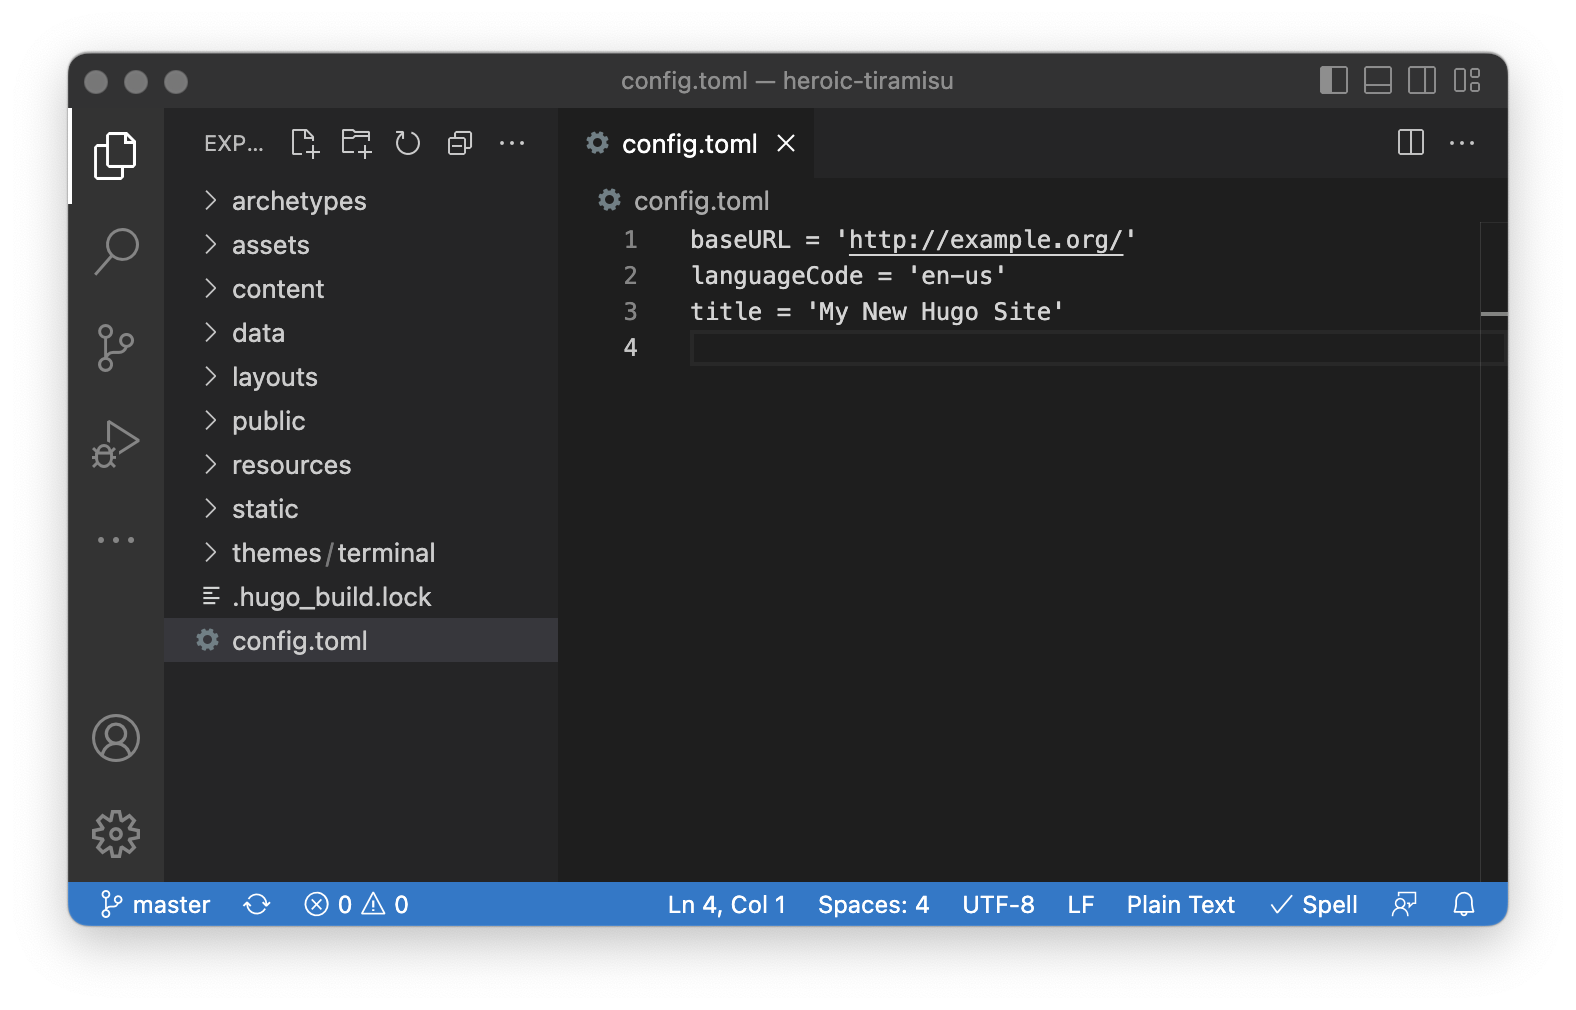
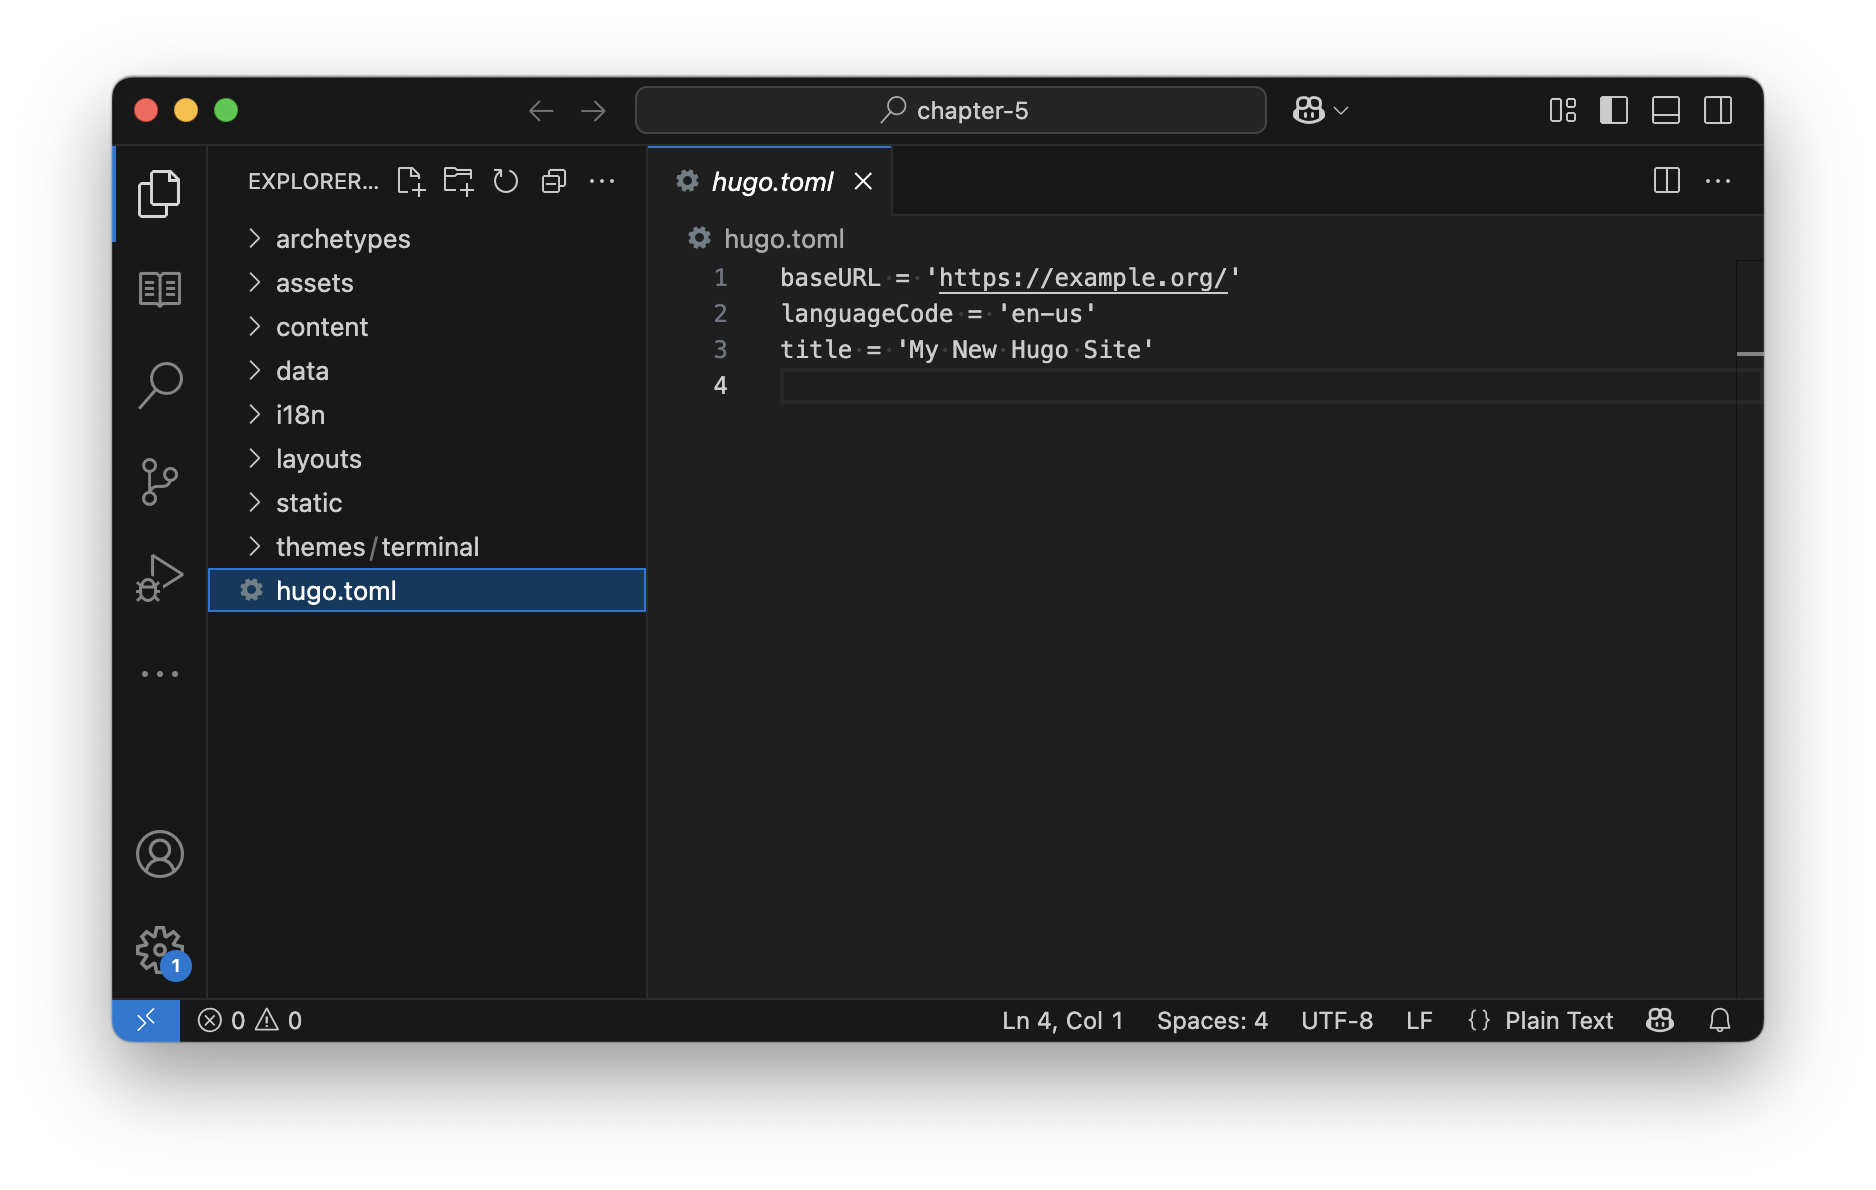
Update chapter 5

Changed region(s): [[0.0311, 0.0307, 0.9638, 0.9208]]

diff --git a/content/chapter-5-creating-a-static-website-using-hugo.md b/content/chapter-5-creating-a-static-website-using-hugo.md
@@ -2,7 +2,7 @@
 title: "Creating a Static Website Using Hugo"
 chapter: "Chapter 5"
 description: "Chapter 5 of the Static Site Guide, a book that explains how to build a static website from scratch."
-date: 2025-06-21
+date: 2025-06-28
 previous: 
   name: "Chapter 4"
   link: "/chapter-4-styling-elements-with-css/"
@@ -70,7 +70,7 @@ We'll start by installing the Homebrew package manager. This is a pre-step of so
 Follow the prompts in your terminal application. You'll be prompted to enter your password and then press the Return key to start the installation. The entire output is displayed below:
 
 ```bash
-mcone@wombat ~ % /bin/bash -c "$(curl -fsSL https://raw.githubusercontent.com/Homebrew/install/HEAD/install.sh)"
+mcone@roadrunner ~ % /bin/bash -c "$(curl -fsSL https://raw.githubusercontent.com/Homebrew/install/HEAD/install.sh)"
 ==> Checking for `sudo` access (which may request your password)...
 Password:
 ==> This script will install:
@@ -122,8 +122,8 @@ brew --version
 If everything worked, the following output will be displayed:
 
 ```bash
-mcone@wombat ~ % brew --version
-Homebrew 4.2.19
+mcone@roadrunner ~ % brew --version
+Homebrew 4.5.8
 ```
 
 {{< aside type="tip" >}}
@@ -147,8 +147,8 @@ hugo version
 If everything worked, you should see something similar to this output:
 
 ```bash
-mcone@wombat ~ % hugo version
-hugo v0.128.0+extended darwin/arm64 BuildDate=2024-06-25T16:15:48Z VendorInfo=brew
+mcone@roadrunner ~ % hugo version
+hugo v0.147.9+extended+withdeploy darwin/arm64 BuildDate=2025-06-23T08:22:20Z VendorInfo=brew
 ```
 
 You've successfully installed Hugo on your Mac and you're ready to create a new website.
@@ -173,7 +173,7 @@ If everything worked, you should see something similar to this output:
 
 ```powershell
 PS C:\Users\mcone> hugo version
-hugo v0.126.1-3d40aba512931031921463dafc172c0d124437b8+extended windows/amd64 BuildDate=2024-05-15T10:42:34Z VendorInfo=gohugoio
+hugo v0.147.9-3d40aba512931031921463dafc172c0d124437b8+extended windows/amd64 BuildDate=2024-05-15T10:42:34Z VendorInfo=gohugoio
 ``` 
 
 You've successfully installed Hugo on your PC and you're ready to create a new website.
@@ -191,7 +191,7 @@ pwd
 You should see output similar to the following:
 
 ```bash
-mcone@wombat ~ % pwd
+mcone@roadrunner ~ % pwd
 /Users/mcone
 ```
 
@@ -204,7 +204,7 @@ cd /Users/mcone/Documents
 If I enter the `pwd` command again, I'll see that I'm in the `Documents` directory:
 
 ```bash
-mcone@wombat Documents % pwd
+mcone@roadrunner Documents % pwd
 /Users/mcone/Documents
 ```
 
@@ -219,19 +219,20 @@ hugo new site heroic-tiramisu
 If everything works, you should see the following output:
 
 ```plain
-mcone@wombat Documents % hugo new site heroic-tiramisu
+mcone@roadrunner Documents % hugo new site heroic-tiramisu
 Congratulations! Your new Hugo site is created in /Users/mcone/Documents/heroic-tiramisu.
 
-Just a few more steps and you're ready to go:
+Just a few more steps...
 
-1. Download a theme into the same-named folder.
-   Choose a theme from https://themes.gohugo.io/ or
-   create your own with the "hugo new theme <THEMENAME>" command.
-2. Perhaps you want to add some content. You can add single files
-   with "hugo new <SECTIONNAME>/<FILENAME>.<FORMAT>".
-3. Start the built-in live server via "hugo server".
+1. Change the current directory to /Users/mcone/Documents/heroic-tiramisu.
+2. Create or install a theme:
+   - Create a new theme with the command "hugo new theme <THEMENAME>"
+   - Or, install a theme from https://themes.gohugo.io/
+3. Edit hugo.toml, setting the "theme" property to the theme name.
+4. Create new content with the command "hugo new content <SECTIONNAME>/<FILENAME>.<FORMAT>".
+5. Start the embedded web server with the command "hugo server --buildDrafts".
 
-Visit https://gohugo.io/ for quickstart guide and full documentation.
+See documentation at https://gohugo.io/.
 ```
 
 Hugo created a new directory called `heroic-tiramisu`—along with some new files and folders inside that—in our Documents folder. We'll take a look at the directory structure after we install the theme.
@@ -264,15 +265,15 @@ Now that we've successfully installed our theme, we can start customizing it.
 
 ### Configuring the Theme
 
-We need to customize the `config.toml` file for the Terminal theme. The `config.toml` file holds metadata and settings for our Hugo website. Hugo uses these settings to control how the website is built, and our theme uses these settings to fill in variables in the template and change the appearance of our website. 
+We need to customize the `hugo.toml` file for the Terminal theme. The `hugo.toml` file holds metadata and settings for our Hugo website. Hugo uses these settings to control how the website is built, and our theme uses these settings to fill in variables in the template and change the appearance of our website. 
 
 At this point, we'll open the `heroic-tiramisu` directory in our text editor so that we can start editing files.
 
-In VS Code, select **New Window** from the **File** menu, and then select **Open Folder** from the **File** menu. Browse to the the `heroic-tiramisu` directory, select it, and click **Open**. The directory will open in VS Code. Select the `config.toml` file in the sidebar to start editing it, as shown below.
+In VS Code, select **New Window** from the **File** menu, and then select **Open Folder** from the **File** menu. Browse to the the `heroic-tiramisu` directory, select it, and click **Open**. The directory will open in VS Code. Select the `hugo.toml` file in the sidebar to start editing it, as shown below.
 
 ![The heroic-tiramisu directory in VS Code](/images/figures/figure-34.png)
 
-The Terminal theme's documentation provides a [sample configuration file](https://github.com/panr/hugo-theme-terminal?tab=readme-ov-file#how-to-configure) that you can use as a starting part. That file contains every possible setting for the Terminal theme, which is overkill for our needs. To simplify things, I've customized the defaults and provided them below so that you can copy and paste them into your `config.toml` file. One line I want to draw your attention to is `theme = "terminal"` which tells Hugo to use the Terminal theme.
+The Terminal theme's documentation provides a [sample configuration file](https://github.com/panr/hugo-theme-terminal?tab=readme-ov-file#how-to-configure) that you can use as a starting part. That file contains every possible setting for the Terminal theme, which is overkill for our needs. To simplify things, I've customized the defaults and provided them below so that you can copy and paste them into your `hugo.toml` file. One line I want to draw your attention to is `theme = "terminal"` which tells Hugo to use the Terminal theme.
 
 {{< aside type="tip" >}}
 The Hugo configuration file is written in [TOML](https://toml.io/en/), a file format for configuration files. That's why the file has the `.toml` file extension and the odd formatting of the settings below.
@@ -282,7 +283,7 @@ The Hugo configuration file is written in [TOML](https://toml.io/en/), a file fo
 baseURL = "/"
 languageCode = "en-us"
 theme = "terminal"
-paginate = 5
+pagination.pagerSize = 5
 
 [params]
   contentTypeName = "posts"
@@ -298,7 +299,7 @@ paginate = 5
     subtitle = "A delicious blog"
     owner = "Heroic Tiramisu"
     keywords = ""
-    copyright = "© 2024 Heroic Tiramisu"
+    copyright = "© 2025 Heroic Tiramisu"
     menuMore = "Show more"
     readMore = "Read more"
     readOtherPosts = "Read other posts"
@@ -312,7 +313,7 @@ paginate = 5
       logoHomeLink = "/"
 ```
 
-Save the changes to the `config.toml` file. We've finished installing and configuring the theme. Now we can see what it looks like!
+Save the changes to the `hugo.toml` file. We've finished installing and configuring the theme. Now we can see what it looks like!
 
 ## Previewing the Website
 
@@ -327,27 +328,28 @@ hugo serve
 If everything works, and the server starts, we'll see the following output:
 
 ```bash
-mcone@wombat heroic-tiramisu % hugo serve
-Watching for changes in /Users/mcone/Library/CloudStorage/Dropbox/Static Guide/heroic-tiramisu/{archetypes,assets,content,data,layouts,static,themes}
-Watching for config changes in /Users/mcone/Library/CloudStorage/Dropbox/Static Guide/heroic-tiramisu/config.toml, /Users/mcone/Library/CloudStorage/Dropbox/Static Guide/heroic-tiramisu/themes/terminal/config.toml
+mcone@roadrunner heroic-tiramisu % hugo serve
+Watching for changes in /Users/mcone/Documents/heroic-tiramisu/{archetypes,assets,content,data,i18n,layouts,static,themes}
+Watching for config changes in /Users/mcone/Documents/heroic-tiramisu/hugo.toml, /Users/mcone/heroic-tiramisu/themes/terminal/config.toml
 Start building sites …
-hugo v0.128.0+extended darwin/arm64 BuildDate=2024-06-25T16:15:48Z VendorInfo=brew
+hugo v0.147.9+extended+withdeploy darwin/arm64 BuildDate=2025-06-23T08:22:20Z VendorInfo=brew
 
-                   | EN
--------------------+-----
-  Pages            | 14
-  Paginator pages  |  0
-  Non-page files   |  0
-  Static files     | 10
-  Processed images |  0
-  Aliases          |  2
-  Cleaned          |  0
 
-Built in 85 ms
+                  │ EN
+──────────────────┼────
+ Pages            │  8
+ Paginator pages  │  0
+ Non-page files   │  0
+ Static files     │  5
+ Processed images │  0
+ Aliases          │  1
+ Cleaned          │  0
+
+Built in 21 ms
 Environment: "development"
 Serving pages from disk
 Running in Fast Render Mode. For full rebuilds on change: hugo server --disableFastRender
-Web Server is available at http://localhost:1313/ (bind address 127.0.0.1)
+Web Server is available at //localhost:1313/ (bind address 127.0.0.1)
 Press Ctrl+C to stop
 ```
 
@@ -358,3 +360,7 @@ Now we can open the website in our web browser. See the URL in the output above?
 It doesn't look like much right now since we can only see the header and footer, but we’ll soon add content and see the full layout in action.
 
 Let's stop the server for now. Switch back to the Terminal application and press both the Control and C keys on the keyboard. Later, after we add some content, we'll start the server again to see what our website looks like with blog posts.
+
+{{< aside type="tip" >}}
+You can view the completed website's source code on [GitHub](https://github.com/staticguide/chapter-5).
+{{< /aside >}}
